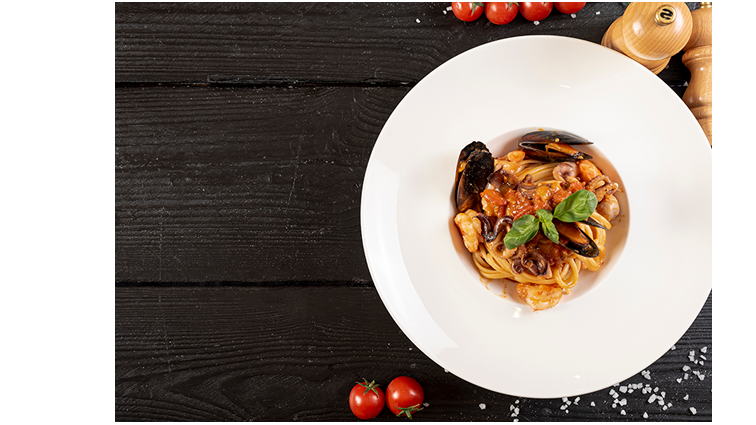
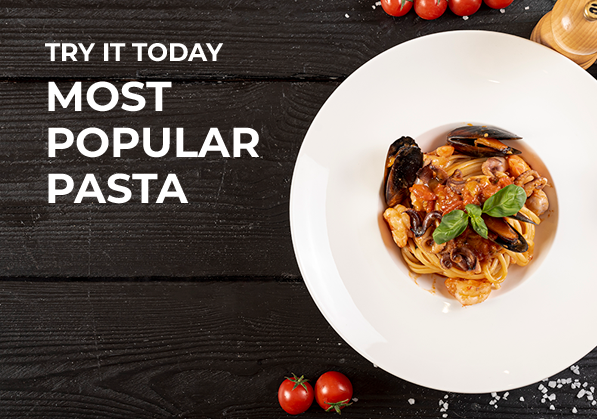
update 30/06/2022

diff --git a/italy_food_style.css b/italy_food_style.css
@@ -418,3 +418,67 @@
 #slider .swiper-pagination-bullet-active{
     background: #fff;
 }
+
+#more-content{
+    background-color: #fff;
+    height: 600px;
+    display: flex;
+    justify-content: center;
+    align-items: center;
+}
+
+#more-content .try-it-containter{
+    background-color: #fff;
+    display: grid;
+    grid-template-columns: 50% 50%;
+    width: 1200px;
+    height: 400px;
+    /* grid-gap: 10px; */
+}
+
+#more-content .try-it-containter > div{
+    /* background-color: #000; */
+}
+
+#more-content .try-it-containter .try-it-one{
+    display: flex;
+    grid-row-end: span 2;
+    width: 100%;
+    height: 100%;
+    align-items: center;
+    justify-content: flex-end;
+}
+
+#more-content .try-it-containter .try-it-two{
+    display: flex;
+    align-items: center;
+    justify-content: center;
+    margin-top: 20px;
+}
+
+#more-content .try-it-containter .try-it-three{
+    display: flex;
+    align-items: center;
+    justify-content: center;
+    margin-top: 30px;
+}
+
+#more-content .try-it-one > img{
+    width: 540px;
+    height: 360px;
+    padding-right: 25px;
+}
+
+#more-content .try-it-two > img{
+    width: 560px;
+    height: 165px;
+}
+
+#more-content .try-it-three > img{
+    width: 560px;
+    height: 165px;
+}
+
+#more-content .group-try-it-right{
+
+}

diff --git a/italy_food.html b/italy_food.html
@@ -145,11 +145,22 @@
                 </div>
             </div>
             <!-- Slider main container -->
-            <div class="try-it-advert">
-                
-            </div>
         </div>
-        <div id="more-content"></div>
+        <div id="more-content">
+                <div class="try-it-containter">
+                    <div class="try-it-one">
+                            <img src="./Image3.png" alt="">
+                    </div>
+                    <div class="group-try-it-right">
+                        <div class="try-it-two">
+                                <img src="./Image4.png" alt="">
+                        </div>
+                        <div class="try-it-three">
+                                <img src="./Image5.png" alt="">
+                        </div>
+                    </div>
+                </div>
+        </div>
         <div id="contact"></div>
         <div id="footer"></div>
     </div>
